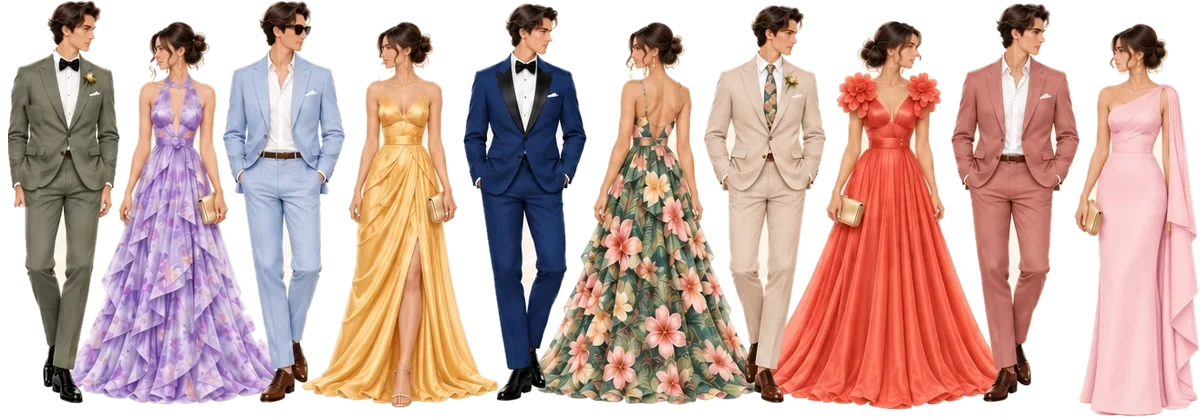
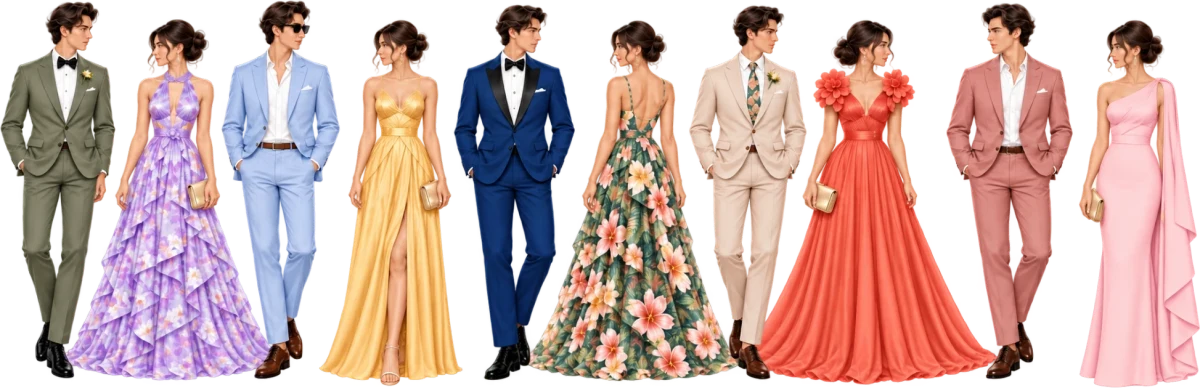
Dress code figures replaced with the new rows, solid rather than see-through
Claude-Session: https://claude.ai/code/session_01GqK2ENqeRUwQmtgcSZFd9X

diff --git a/index.html b/index.html
@@ -932,7 +932,7 @@ html.has-lightbox{overflow:hidden}
       <span class="dress-day">Friday · The welcome party</span>
       <h2 class="dress-title">All White Attire</h2>
       <p class="dress-copy">Join us for sunset cocktails and our tea ceremony at Rock Bar! We’d love for everyone to wear white — think relaxed, elevated, and beach chic.</p>
-      <img class="dress-figs" data-src="assets/figs-white.webp" alt="Eight guests in white: linen shirts with shorts or trousers, and white dresses and a jumpsuit." width="1200" height="458" loading="lazy" decoding="async">
+      <img class="dress-figs" data-src="assets/figs-white.webp" alt="Eight guests in white: linen shirts with shorts or trousers, and white dresses and a jumpsuit." width="1200" height="430" loading="lazy" decoding="async">
     </div>
 
     <i class="dress-divider" aria-hidden="true"></i>
@@ -941,7 +941,7 @@ html.has-lightbox{overflow:hidden}
       <span class="dress-day">Saturday · The wedding</span>
       <h2 class="dress-title">Tropical Black Tie</h2>
       <p class="dress-copy">Tropical black tie attire is requested, with vibrant colors and tropical hues warmly encouraged. Lightweight fabrics and destination-friendly silhouettes are welcome. Above all, come dressed in your formal best and ready to celebrate with us.</p>
-      <img class="dress-figs" data-src="assets/figs-tropical.webp" alt="Ten guests in colourful formalwear: suits in sage, sky blue, navy, ivory and rose, and gowns in lilac, gold, floral, coral and pink." width="1200" height="417" loading="lazy" decoding="async">
+      <img class="dress-figs" data-src="assets/figs-tropical.webp" alt="Ten guests in colourful formalwear: suits in sage, sky blue, navy, ivory and rose, and gowns in lilac, gold, floral, coral and pink." width="1200" height="388" loading="lazy" decoding="async">
     </div>
   </div>
 </section>
